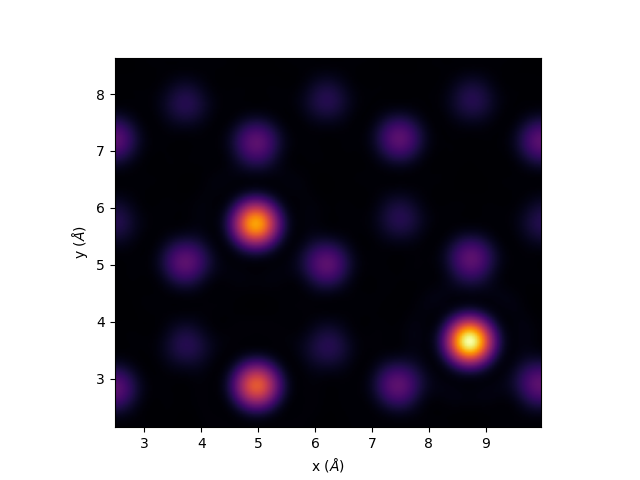
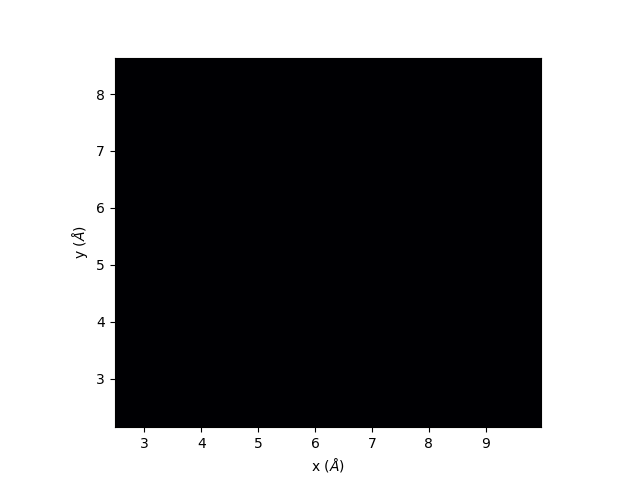
missed xp in applyShifts, and try out einsum for ADF summation

diff --git a/src/pyslice/postprocessing/haadf_data.py b/src/pyslice/postprocessing/haadf_data.py
@@ -201,14 +201,14 @@ class HAADFData(PySliceSerial, Signal):
 
         #collected = self._wf_array * mask[None,None,None,:,:,None] # c,x,y,t,kx,ky,l indices, mask is kx,ky
         #self._array = xp.mean(xp.sum(xp.absolute(collected),axis=(4,5)),axis=(0,3,4)) # sum over kx,ky, mean over c,t,l
-        for i in range(len(self._xs)): # looping doesn't blow up ram when we absolute it
-            for j in range(len(self._ys)):
-                collected = self._wf_array[:,i,j,:,:,:,:] * mask[None,None,:,:,None] # c,[x],[y],t,kx,ky,l indices, mask is kx,ky
-                self._array[i,j] = mean(sum(absolute(collected)**2,axis=(2,3)),axis=(0,1,2)) # sum |ψ|² over kx,ky, mean over c,t,l
+        #for i in range(len(self._xs)): # looping doesn't blow up ram when we absolute it
+        #    for j in range(len(self._ys)):
+        #        collected = self._wf_array[:,i,j,:,:,:,:] * mask[None,None,:,:,None] # c,[x],[y],t,kx,ky,l indices, mask is kx,ky
+        #        self._array[i,j] = mean(sum(absolute(collected)**2,axis=(2,3)),axis=(0,1,2)) # sum |ψ|² over kx,ky, mean over c,t,l
         # TODO this should be einsum, but i'm not trying to test it right now...
-        #nc,_,_,nt,_,_,nl = self._wf_array.shape
-        #self._wf_array = absolute(self._wf_array)**2
-        #self._array = xp.einsum('cxytkql,kq->xy',self._wf_array,mask)/(nc*nt*nl) # RECEIVES ERROR: RuntimeError: expected scalar type ComplexDouble but found Double
+        nc,_,_,nt,_,_,nl = self._wf_array.shape
+        self._wf_array = absolute(self._wf_array)**2
+        self._array = einsum('cxytkql,kq->xy',self._wf_array,mask)/(nc*nt*nl) # RECEIVES ERROR: RuntimeError: expected scalar type ComplexDouble but found Double
 
         # Update dimensions with computed xs, ys
         def to_numpy(x):

diff --git a/src/pyslice/multislice/multislice.py b/src/pyslice/multislice/multislice.py
@@ -646,7 +646,7 @@ class PrismProbe:
         self._array = self._array[:,0,None,:,:] * ones(len(self.probe_positions))[None,:,None,None]
         # loop through probe positions
         for n,(kx,ky) in enumerate(self.probe_positions):
-            self._array[:,n,:,:] = np.exp(2j * xp.pi * self.xs[:, None] * kx ) * xp.exp(2j * xp.pi * self.ys[None,:] * ky )
+            self._array[:,n,:,:] = xp.exp(2j * xp.pi * self.xs[:, None] * kx ) * xp.exp(2j * xp.pi * self.ys[None,:] * ky )
             # numpy appears to use exp(i2pixk) convention for FFT: xs = np.linspace(0,100,10000) ; ys = np.sin(xs) ; fft = np.fft.fft(ys) ; freq=np.fft.fftfreq(len(xs),d=xs[1]-xs[0]) ; fft2 = np.sum(ys[:,None]*np.exp(2j*np.pi*xs[:,None]*freq[None,:]),axis=0)
 
     # if a PrismProbe object (a whole bunch of sinusoidal entrance waves) is propagated through a potential, then the potential exit waves for a whole bunch of realistic probes can be calculated from the exit waves for each entrance wave

diff --git a/tests/22_prism.py b/tests/22_prism.py
@@ -34,7 +34,7 @@ calculator=MultisliceCalculator()
 # SET UP GRID OF HAADF SCAN POINTS
 #xy=probe_grid([a,3*a],[b,3*b],14,16)
 #calculator.setup(trajectory,aperture=30,voltage_eV=100e3,sampling=.1,slice_thickness=.5,probe_positions=xy,cache_levels=[])
-probe_xs = np.linspace(a,4*a,256) ; probe_ys = np.linspace(b,4*b,256)
+probe_xs = np.linspace(a,4*a,50) ; probe_ys = np.linspace(b,4*b,50)
 calculator.setup(trajectory,aperture=30,voltage_eV=100e3,sampling=.1,slice_thickness=.5,probe_xs=probe_xs,probe_ys=probe_ys,prism=50,loop_probes=50,use_memmap=True)#,cache_levels=[])
 # RUN MULTISLICE
 exitwaves = calculator.run()